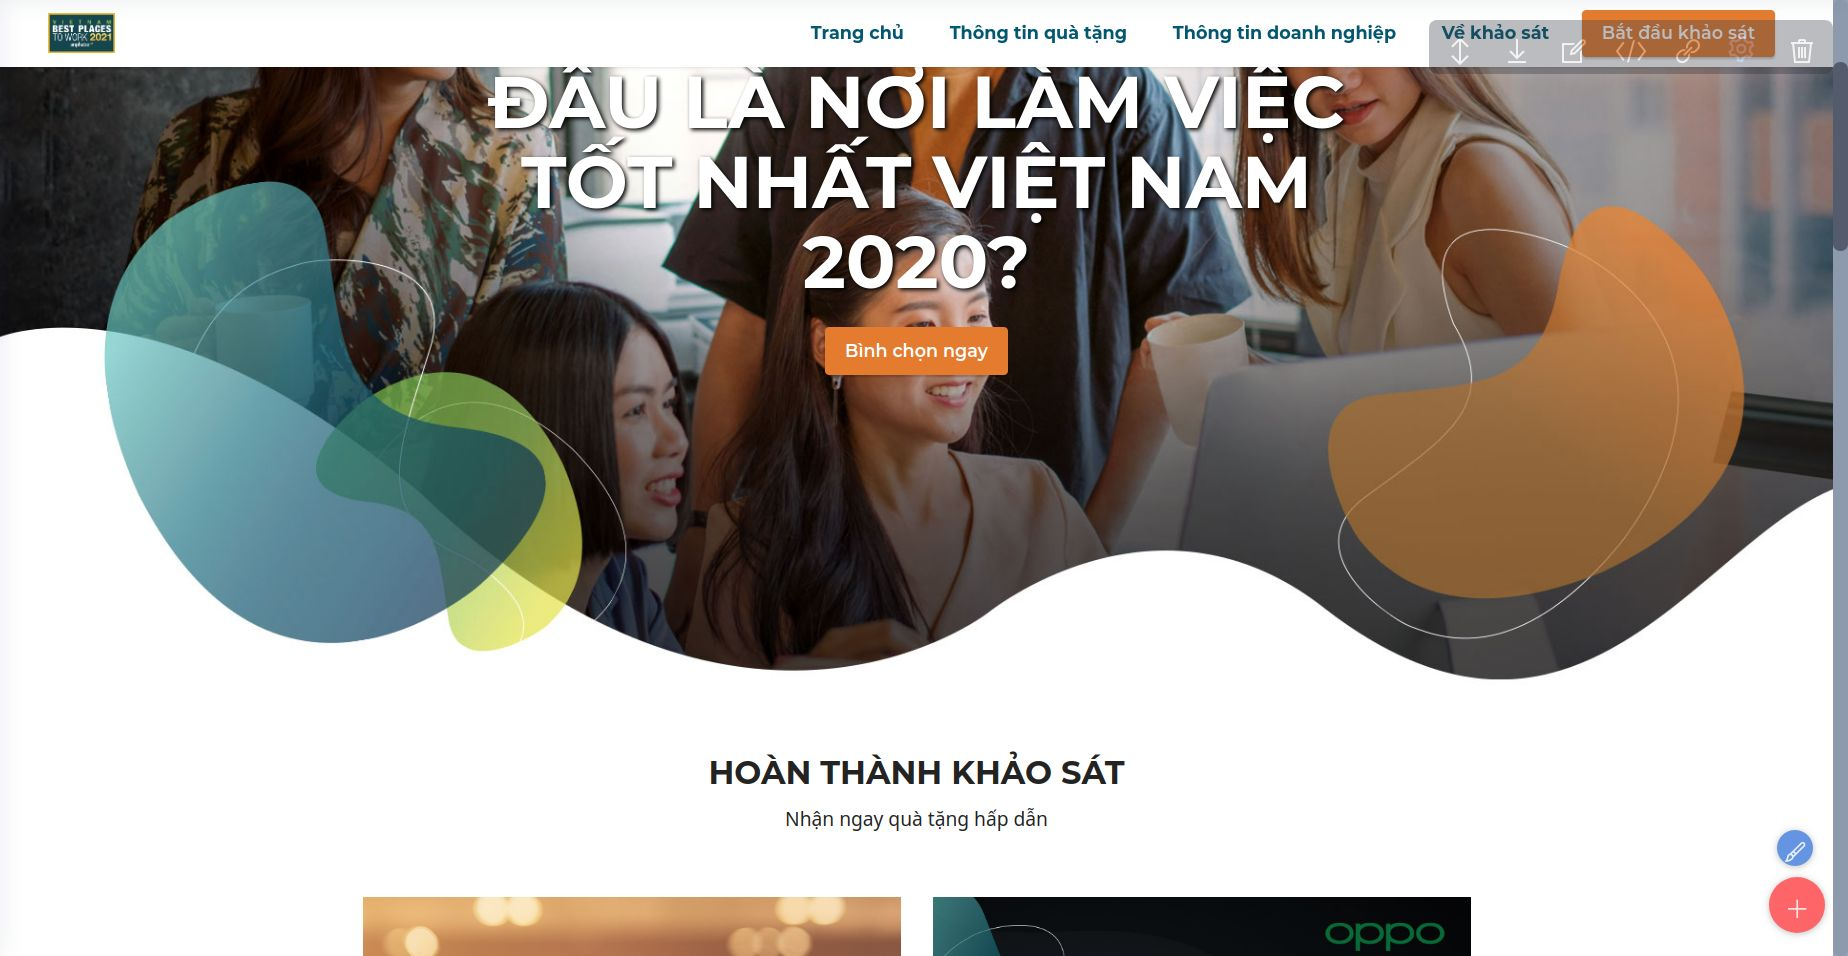
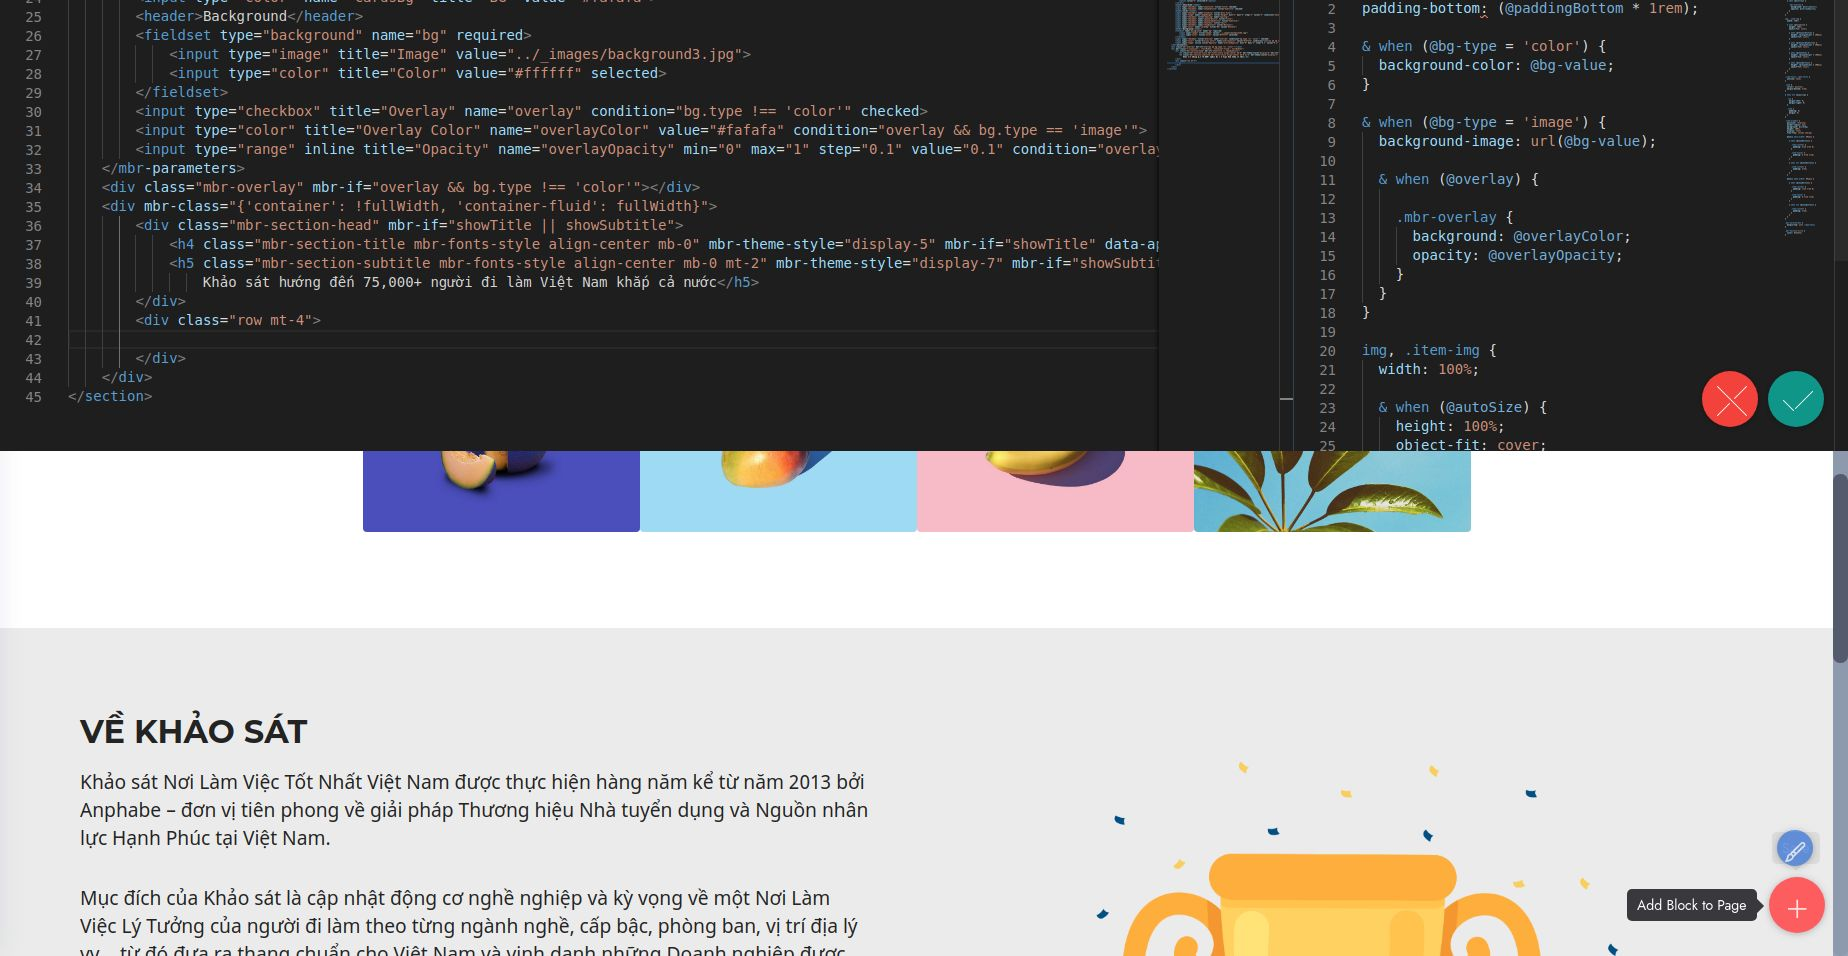
update

diff --git a/index.html b/index.html
@@ -161,20 +161,6 @@ height="0" width="0" style="display:none;visibility:hidden"></iframe></noscript>
     </div>
 </section>
 
-<section class="content4 cid-svgYB9lBzo" id="content4-3">
-    
-    
-    <div class="container">
-        <div class="row justify-content-center">
-            <div class="title col-md-12 col-lg-10">
-                
-                <h4 class="mbr-section-subtitle align-center mbr-fonts-style mb-4 display-7"><em><a href="https://www.facebook.com/watch/anphabe/689271014971012/" class="text-primary" target="_blank">Xem kết quả bốc thăm trúng thưởng cho người tham gia khảo sát tại đây</a>.</em></h4>
-                
-            </div>
-        </div>
-    </div>
-</section>
-
 <section class="info1 cid-svha6NFwtf" id="info1-6">
     
     <div class="mbr-overlay" style="opacity: 0.8; background-color: rgb(35, 35, 35);"></div>
@@ -201,42 +187,7 @@ height="0" width="0" style="display:none;visibility:hidden"></iframe></noscript>
                 Khảo sát hướng đến 75,000+ người đi làm Việt Nam khắp cả nước</h5>
         </div>
         <div class="row mt-4">
-            <div class="item features-image сol-12 col-md-6 col-lg-3">
-                <div class="item-wrapper">
-                    <div class="item-img">
-                        <img src="assets/images/features1.jpg">
-                    </div>
-                    
-                    
-                </div>
-            </div>
-            <div class="item features-image сol-12 col-md-6 col-lg-3">
-                <div class="item-wrapper">
-                    <div class="item-img">
-                        <img src="assets/images/features2.jpg">
-                    </div>
-                    
-                    
-                </div>
-            </div>
-            <div class="item features-image сol-12 col-md-6 col-lg-3">
-                <div class="item-wrapper">
-                    <div class="item-img">
-                        <img src="assets/images/features3.jpg">
-                    </div>
-                    
-                    
-                </div>
-            </div>
-            <div class="item features-image сol-12 col-md-6 col-lg-3">
-                <div class="item-wrapper">
-                    <div class="item-img">
-                        <img src="assets/images/features4.jpg" alt="" title="">
-                    </div>
-                    
-                    
-                </div>
-            </div>
+            
         </div>
     </div>
 </section>

diff --git a/assets/mobirise/css/mbr-additional.css b/assets/mobirise/css/mbr-additional.css
@@ -1064,7 +1064,7 @@ a {
 }
 .cid-svgYuuAGAj {
   padding-top: 0rem;
-  padding-bottom: 2rem;
+  padding-bottom: 4rem;
   background-color: #ffffff;
 }
 @media (max-width: 991px) {
@@ -1080,11 +1080,6 @@ a {
 }
 .cid-svgYuuAGAj img {
   width: 100%;
-}
-.cid-svgYB9lBzo {
-  padding-top: 0rem;
-  padding-bottom: 4rem;
-  background-color: #ffffff;
 }
 .cid-svha6NFwtf {
   padding-top: 8rem;
